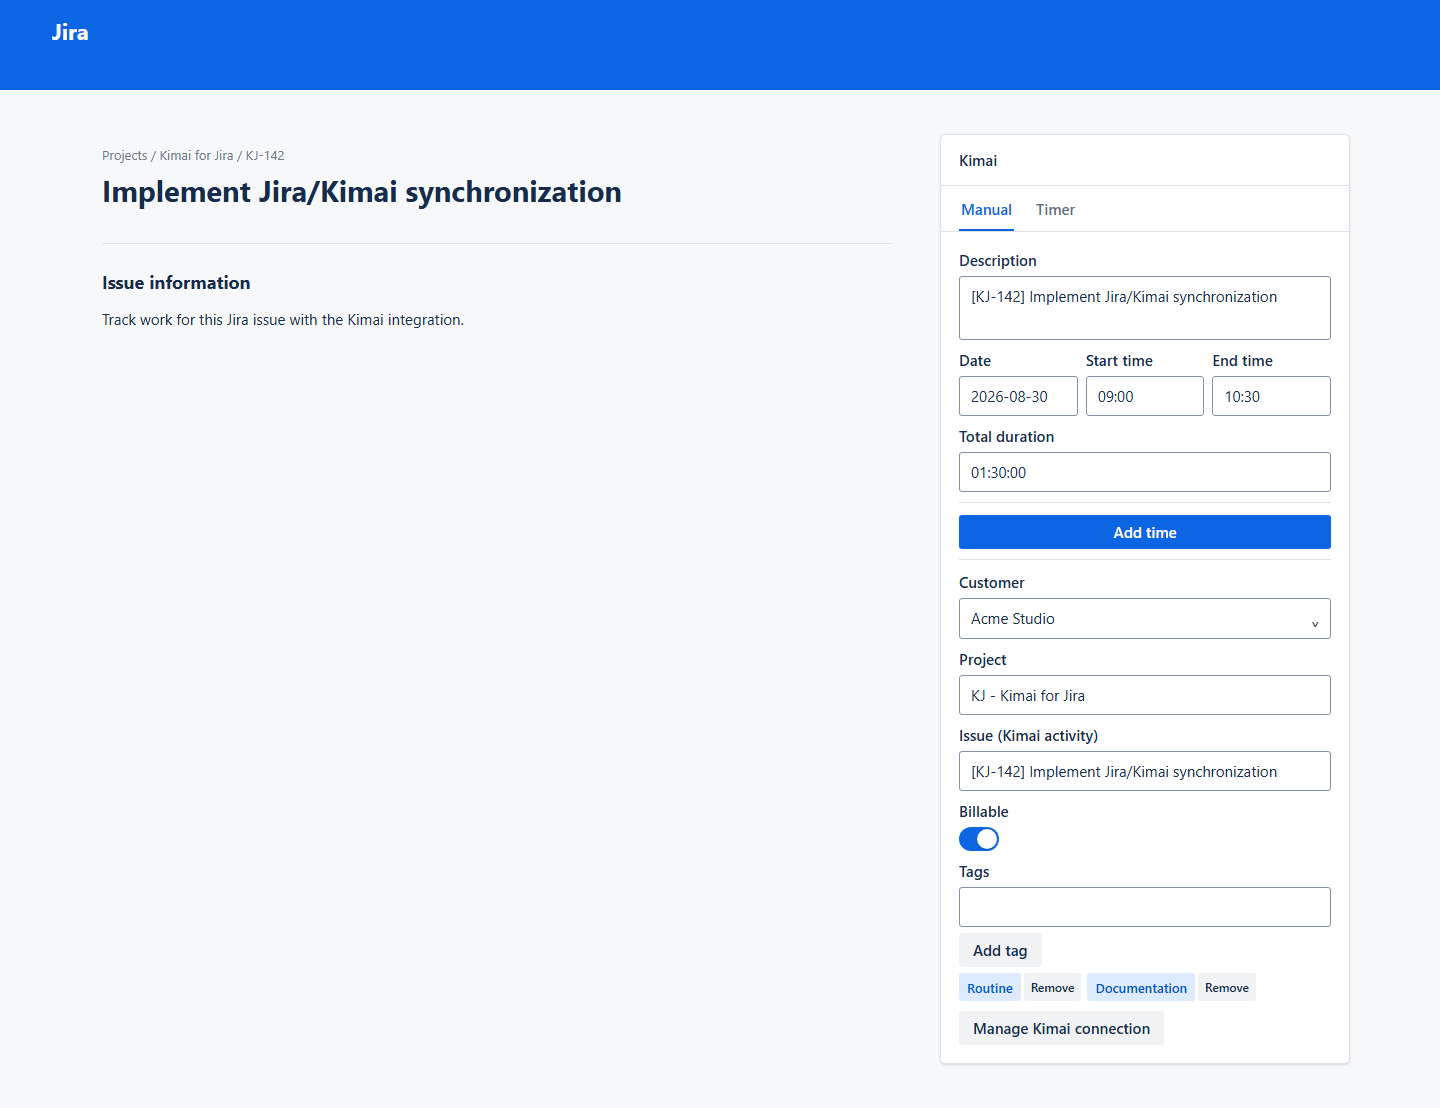
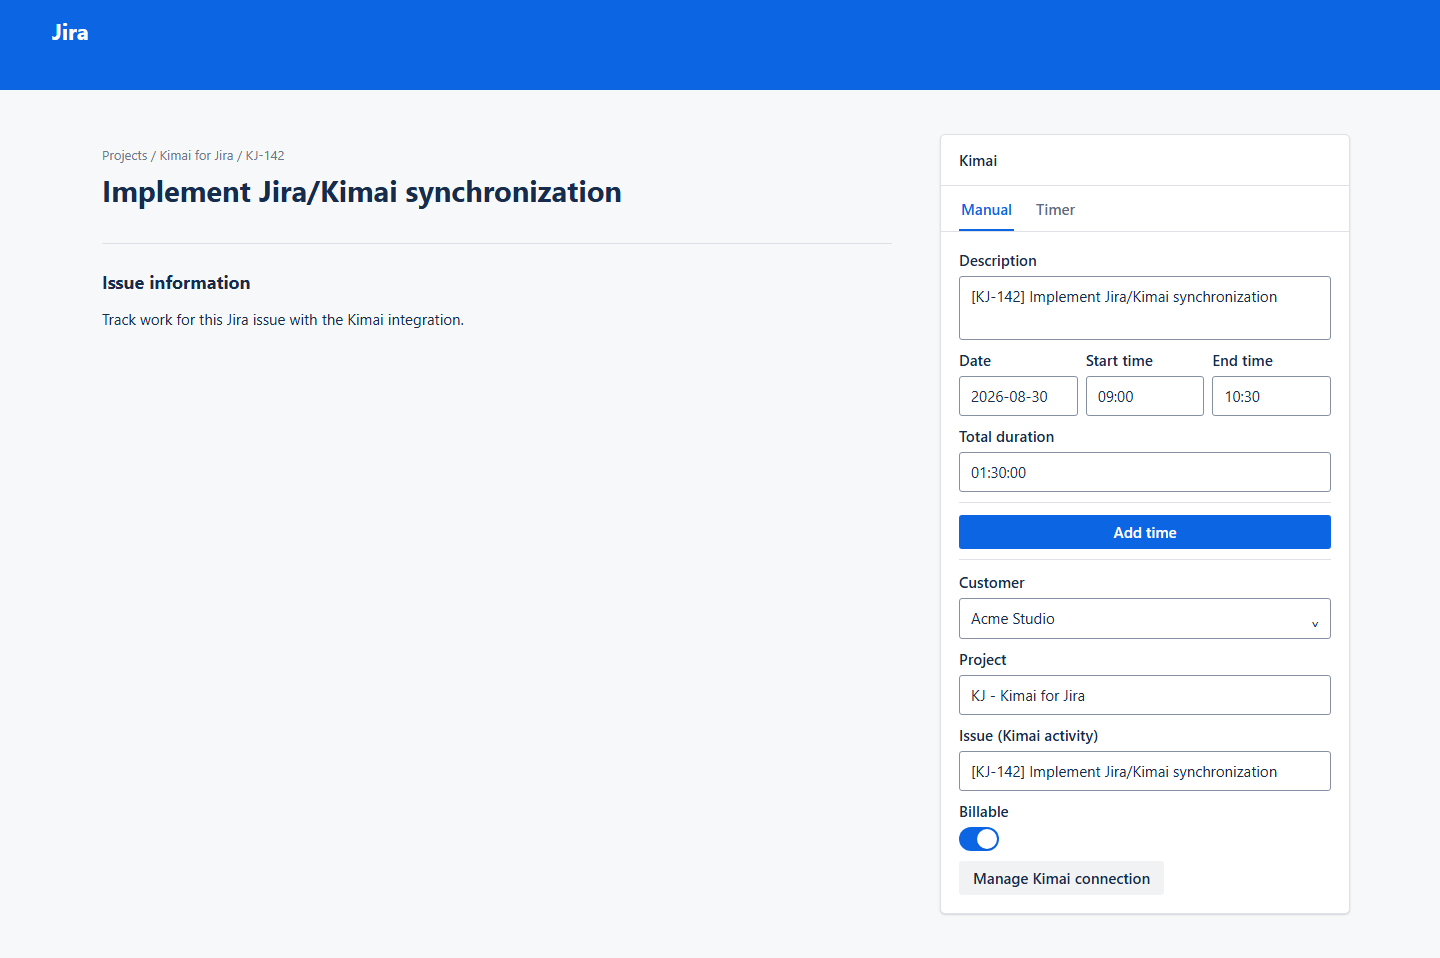
fix(manual): omit tags from Kimai payload

Changed region(s): [[0.0, 0.0303, 1.0, 0.9384], [0.0625, 0.2422, 0.3125, 0.3027], [0.0938, 0.333, 0.3125, 0.3633]]

diff --git a/src/frontend/issue-context/IssueContextView.tsx b/src/frontend/issue-context/IssueContextView.tsx
@@ -8,8 +8,6 @@ import {
   Select,
   SectionMessage,
   Stack,
-  Tag,
-  TagGroup,
   Tab,
   TabList,
   TabPanel,
@@ -64,8 +62,6 @@ export interface IssueContextViewProps {
   manualDate: string;
   manualStartTime: string;
   manualEndTime: string;
-  manualTags: string[];
-  manualTagInput: string;
   manualBillable: boolean;
   isManualEntryPending: boolean;
   manualEntryMessage?: string;
@@ -81,9 +77,6 @@ export interface IssueContextViewProps {
   onManualDateChange: (value: string) => void;
   onManualStartTimeChange: (value: string) => void;
   onManualEndTimeChange: (value: string) => void;
-  onManualTagInputChange: (value: string) => void;
-  onAddManualTag: () => void;
-  onRemoveManualTag: (tag: string) => void;
   onManualBillableChange: (value: boolean) => void;
   onCreateManualEntry: () => void;
   onStart: () => void;
@@ -109,8 +102,6 @@ export const IssueContextView = ({
   manualDate,
   manualStartTime,
   manualEndTime,
-  manualTags,
-  manualTagInput,
   manualBillable,
   isManualEntryPending,
   manualEntryMessage,
@@ -126,9 +117,6 @@ export const IssueContextView = ({
   onManualDateChange,
   onManualStartTimeChange,
   onManualEndTimeChange,
-  onManualTagInputChange,
-  onAddManualTag,
-  onRemoveManualTag,
   onManualBillableChange,
   onCreateManualEntry,
   onStart,
@@ -171,9 +159,6 @@ export const IssueContextView = ({
             onDescriptionChange={onManualDescriptionChange}
             onEndTimeChange={onManualEndTimeChange}
             onStartTimeChange={onManualStartTimeChange}
-            onTagInputChange={onManualTagInputChange}
-            onAddTag={onAddManualTag}
-            onRemoveTag={onRemoveManualTag}
             onManageConnection={onManageConnection}
             selectedCustomer={selectedCustomer}
             state={state}
@@ -183,8 +168,6 @@ export const IssueContextView = ({
             totalDuration={manualTotalDuration}
             endTime={manualEndTime}
             startTime={manualStartTime}
-            tags={manualTags}
-            tagInput={manualTagInput}
           />
         </TabPanel>
         <TabPanel>
@@ -291,8 +274,6 @@ interface ManualTimeEntryProps {
   date: string;
   startTime: string;
   endTime: string;
-  tags: string[];
-  tagInput: string;
   billable: boolean;
   isPending: boolean;
   message?: string;
@@ -301,18 +282,15 @@ interface ManualTimeEntryProps {
   onDateChange: (value: string) => void;
   onStartTimeChange: (value: string) => void;
   onEndTimeChange: (value: string) => void;
-  onTagInputChange: (value: string) => void;
-  onAddTag: () => void;
-  onRemoveTag: (tag: string) => void;
   onManageConnection: () => void;
   onBillableChange: (value: boolean) => void;
   onCreate: () => void;
 }
 
 function ManualTimeEntry({
-  state, customerOptions, selectedCustomer, description, totalDuration, date, startTime, endTime, tags, tagInput, billable,
+  state, customerOptions, selectedCustomer, description, totalDuration, date, startTime, endTime, billable,
   isPending, message, onCustomerChange, onDescriptionChange, onDateChange,
-  onStartTimeChange, onEndTimeChange, onTagInputChange, onAddTag, onRemoveTag, onManageConnection, onBillableChange, onCreate,
+  onStartTimeChange, onEndTimeChange, onManageConnection, onBillableChange, onCreate,
 }: ManualTimeEntryProps) {
   const blockingReason = !state.personalTokenConfigured
     ? 'Add your personal Kimai API token before adding time.'
@@ -408,21 +386,7 @@ function ManualTimeEntry({
               size="large"
             />
           </FormSection>
-          <FormSection>
-            <Label labelFor="manual-tags">Tags</Label>
-            <Textfield id="manual-tags" placeholder="Type a tag, then choose Add tag" value={tagInput} onChange={(event: { target: { value?: unknown } }) => onTagInputChange(String(event.target.value ?? ''))} />
-            <Button appearance="subtle" isDisabled={!tagInput.trim()} onClick={onAddTag}>Add tag</Button>
-            {tags.length > 0 && (
-              <TagGroup>
-                {tags.map((tag) => (
-                  <Inline key={tag} alignBlock="center" space="space.050">
-                    <Tag color="blueLight" text={tag} />
-                    <Button appearance="subtle" onClick={() => onRemoveTag(tag)}>Remove</Button>
-                  </Inline>
-                ))}
-              </TagGroup>
-            )}
-          </FormSection>
+          {/* Tags are temporarily disabled while we verify Kimai timesheet creation. */}
           <Button onClick={onManageConnection}>Manage Kimai connection</Button>
         </Stack>
       </Box>

diff --git a/src/frontend/issue-context/index.tsx b/src/frontend/issue-context/index.tsx
@@ -67,8 +67,6 @@ const App = () => {
   const [manualDate, setManualDate] = useState(localDateInputValue);
   const [manualStartTime, setManualStartTime] = useState(() => localTimeInputValue(new Date()));
   const [manualEndTime, setManualEndTime] = useState(() => localTimeInputValue(new Date(Date.now() + 60 * 60 * 1000)));
-  const [manualTags, setManualTags] = useState<string[]>([]);
-  const [manualTagInput, setManualTagInput] = useState('');
   const [manualBillable, setManualBillable] = useState(false);
   const [isManualEntryPending, setIsManualEntryPending] = useState(false);
   const [manualEntryMessage, setManualEntryMessage] = useState<string | undefined>(undefined);
@@ -227,7 +225,6 @@ const App = () => {
         startTime: manualStartTime,
         endTime: manualEndTime,
         timezoneOffsetMinutes: timezoneOffsetForManualStart(manualDate, manualStartTime),
-        tags: manualTags,
         billable: manualBillable,
       })) as { ok?: boolean; error?: string; timesheet?: { id?: number } };
       if (!result.ok) {
@@ -235,8 +232,6 @@ const App = () => {
         return;
       }
       setManualDescription(defaultManualDescription(state));
-      setManualTags([]);
-      setManualTagInput('');
       setManualEntryMessage('Time added');
     } catch (manualError) {
       setManualEntryMessage(`Unable to add time to Kimai: ${String(manualError)}`);
@@ -274,16 +269,6 @@ const App = () => {
       onManualDescriptionChange={setManualDescription}
       onManualEndTimeChange={setManualEndTime}
       onManualStartTimeChange={setManualStartTime}
-      onManualTagInputChange={setManualTagInput}
-      onAddManualTag={() => {
-        const tag = manualTagInput.trim();
-        if (!tag) return;
-        setManualTags((current) => current.some((value) => value.toLocaleLowerCase() === tag.toLocaleLowerCase())
-          ? current
-          : [...current, tag]);
-        setManualTagInput('');
-      }}
-      onRemoveManualTag={(tag) => setManualTags((current) => current.filter((value) => value !== tag))}
       onPersonalApiTokenChange={setPersonalApiToken}
       onResetPersonalToken={handleResetPersonalToken}
       onSavePersonalToken={handleSavePersonalToken}
@@ -297,8 +282,6 @@ const App = () => {
       manualEndTime={manualEndTime}
       manualEntryMessage={manualEntryMessage}
       manualStartTime={manualStartTime}
-      manualTags={manualTags}
-      manualTagInput={manualTagInput}
       manualTotalDuration={totalManualDuration}
       selectedKimaiCustomerId={selectedKimaiCustomerId}
       activeTab={activeTab}

diff --git a/src/resolvers/issue-context.ts b/src/resolvers/issue-context.ts
@@ -47,7 +47,6 @@ interface ManualTimeEntryPayload {
   startTime?: unknown;
   endTime?: unknown;
   duration?: unknown;
-  tags?: unknown;
   billable?: unknown;
   timezoneOffsetMinutes?: unknown;
 }
@@ -107,16 +106,6 @@ function addDuration(begin: string, seconds: number): string {
   const beginAsUtc = new Date(`${begin}Z`);
   const end = new Date(beginAsUtc.getTime() + seconds * 1000).toISOString();
   return end.slice(0, 19);
-}
-
-function manualTags(value: unknown): string[] | undefined {
-  const rawTags = Array.isArray(value)
-    ? value.filter((tag): tag is string => typeof tag === 'string')
-    : typeof value === 'string' ? value.split(',') : [];
-  const tags = rawTags
-    .map((tag) => tag.trim())
-    .filter((tag, index, all) => Boolean(tag) && all.findIndex((candidate) => candidate.toLocaleLowerCase() === tag.toLocaleLowerCase()) === index);
-  return tags.length > 0 ? tags : undefined;
 }
 
 function timerProjectName(issue: JiraIssueDetails): string {
@@ -459,7 +448,6 @@ resolver.define('createManualTimeEntry', async (request) => {
       activity: target.activityId,
       user: userMapping!.kimaiUserId,
       description: manualDescriptionWithIssueMarker(issueKey, payload.description),
-      tags: manualTags([...(manualTags(payload.tags) ?? []), issueKey]),
       billable: payload.billable === true,
     });
     return { ok: true, timesheet };

diff --git a/scripts/ui-docs/fixtures.tsx b/scripts/ui-docs/fixtures.tsx
@@ -51,14 +51,11 @@ function issueFixture(
         onCustomerChange={noop}
         onManageConnection={noop}
         onCreateManualEntry={noop}
-        onAddManualTag={noop}
         onManualBillableChange={noop}
         onManualDateChange={noop}
         onManualDescriptionChange={noop}
         onManualEndTimeChange={noop}
         onManualStartTimeChange={noop}
-        onManualTagInputChange={noop}
-        onRemoveManualTag={noop}
         onPersonalApiTokenChange={noop}
         onResetPersonalToken={noop}
         onSavePersonalToken={noop}
@@ -70,8 +67,6 @@ function issueFixture(
         manualDescription="[KJ-142] Implement Jira/Kimai synchronization"
         manualEndTime="10:30"
         manualStartTime="09:00"
-        manualTagInput=""
-        manualTags={['Routine', 'Documentation']}
         manualTotalDuration="01:30:00"
         selectedKimaiCustomerId={21}
         state={state}

diff --git a/tests/unit/issue-context-resolver.test.ts b/tests/unit/issue-context-resolver.test.ts
@@ -337,7 +337,6 @@ describe('issue context resolver', () => {
         startTime: '09:00',
         duration: '01:30:00',
         timezoneOffsetMinutes: 0,
-        tags: ['Routine', 'Billing', 'Routine'],
         billable: true,
       },
     });
@@ -349,7 +348,6 @@ describe('issue context resolver', () => {
       activity: 20,
       user: 42,
       description: '[BA-3] Investigate billing synchronization',
-      tags: ['Routine', 'Billing', 'BA-3'],
       billable: true,
     });
     expect(result).toEqual({ ok: true, timesheet: { id: 8300 } });
